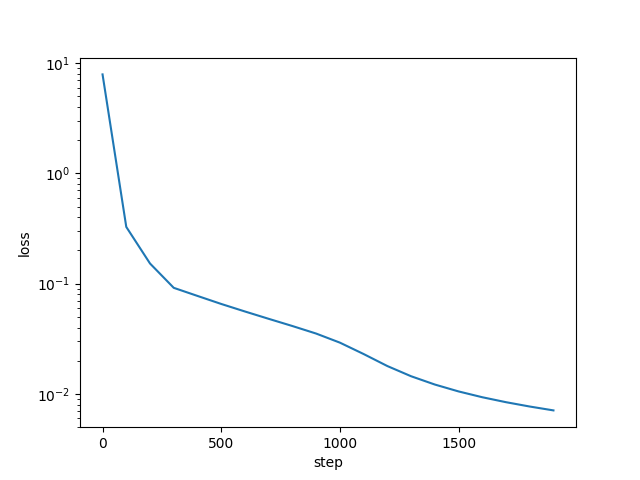
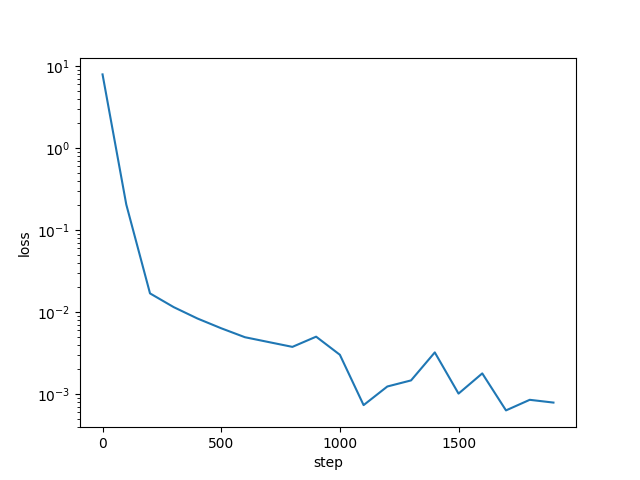
add fourier basis

diff --git a/src/jaxkan/train_mnist.py b/src/jaxkan/train_mnist.py
@@ -11,7 +11,7 @@ input_dim = 28 * 28
 batch_size = 64
 epoch_num = 10
 lr = 0.003
-
+spline_fn_name = "fourier"
 
 basis_fn = jax.nn.silu
 width_list = [input_dim, 64, class_num]
@@ -44,7 +44,9 @@ opt_state = solver.init(params)
 
 def loss_fn(params, X, Y):
     logits = jax.vmap(
-        lambda x: jax.nn.log_softmax(model(params, x, basis_fn, width_list, t, k))
+        lambda x: jax.nn.log_softmax(
+            model(params, x, basis_fn, width_list, t, k, spline_fn_name)
+        )
     )(X)
     one_hots = jax.nn.one_hot(Y, class_num)
     one_hots = jnp.reshape(one_hots, (len(Y), class_num))
@@ -59,6 +61,7 @@ steps_per_epoch = train_ds_size // batch_size
 loss_history = []
 train_accuracy_history = []
 test_accuracy_history = []
+
 
 keys = jax.random.split(jax.random.PRNGKey(0), epoch_num)
 for epoch in range(epoch_num):
@@ -76,7 +79,10 @@ for epoch in range(epoch_num):
         loss_history.append(loss)
     train_accuracy = jnp.mean(
         jax.vmap(
-            lambda x, y: jnp.argmax(model(params, x, basis_fn, width_list, t, k)) == y
+            lambda x, y: jnp.argmax(
+                model(params, x, basis_fn, width_list, t, k, spline_fn_name)
+            )
+            == y
         )(
             train_ds["image"].reshape((-1, input_dim)),
             train_ds["label"].reshape((-1, 1)),
@@ -84,7 +90,10 @@ for epoch in range(epoch_num):
     )
     test_accuracy = jnp.mean(
         jax.vmap(
-            lambda x, y: jnp.argmax(model(params, x, basis_fn, width_list, t, k)) == y
+            lambda x, y: jnp.argmax(
+                model(params, x, basis_fn, width_list, t, k, spline_fn_name)
+            )
+            == y
         )(test_ds["image"].reshape((-1, input_dim)), test_ds["label"].reshape((-1, 1)))
     )
     train_accuracy_history.append(train_accuracy)
@@ -99,7 +108,7 @@ plt.plot(loss_history)
 plt.yscale("log")
 plt.xlabel("step")
 plt.ylabel("loss")
-plt.savefig("mnist_loss.png")
+plt.savefig(f"mnist_loss_{spline_fn_name}.png")
 
 
 plt.figure()
@@ -108,4 +117,4 @@ plt.plot(test_accuracy_history, label="test")
 plt.xlabel("epoch")
 plt.ylabel("accuracy")
 plt.legend()
-plt.savefig("mnist_accuracy.png")
+plt.savefig(f"mnist_accuracy_{spline_fn_name}.png")

diff --git a/src/jaxkan/model.py b/src/jaxkan/model.py
@@ -8,6 +8,7 @@ from functools import partial
 #   x_{l+1,j} := \sum \psi(x_{l,i})
 
 
+# 1d b-spline interpolation
 @partial(jax.jit, static_argnums=(4, 5, 6))
 def psi(
     x: jnp.float32,
@@ -26,15 +27,49 @@ def psi(
     return scale_base * basis_fn(x) + scale_spline * spline
 
 
+# 1d fourier interpolation
+@partial(jax.jit, static_argnums=(4, 5, 6))
+def psi_fourier(
+    x: jnp.float32,
+    t: jax.Array,
+    params: jax.Array,
+    params_idx: int,
+    psi_param_length: int,
+    k: int,
+    basis_fn=jax.nn.silu,
+) -> jnp.float32:
+    params_slice = jax.lax.dynamic_slice(params, (params_idx,), (psi_param_length - 2,))
+    spline = 0
+    for i in range(len(params_slice)):
+        if i % 2 == 0:
+            spline += jnp.cos((i // 2) * x * jnp.pi) * params_slice[i]
+        else:
+            spline += jnp.sin((i // 2) * x * jnp.pi) * params_slice[i]
+
+    scale_base = params[params_idx + psi_param_length - 2]
+    scale_spline = params[params_idx + psi_param_length - 1]
+    return scale_base * basis_fn(x) + scale_spline * spline
+
+
+spline_fn_dict = {"bspline": psi, "fourier": psi_fourier}
+
+
 def model(
-    params: jax.Array, x: jax.Array, basis_fn, width_list: list, t: jax.Array, k: int
+    params: jax.Array,
+    x: jax.Array,
+    basis_fn,
+    width_list: list,
+    t: jax.Array,
+    k: int,
+    spline_fb_name: str = "bspline",
 ) -> jax.Array:
     psi_param_length = len(t) - k - 1 + 2
     current_idx = 0
+    spline_fn = spline_fn_dict[spline_fb_name]
     for l in range(len(width_list) - 1):
         P = jax.vmap(
             lambda i: jax.vmap(
-                lambda j: psi(
+                lambda j: spline_fn(
                     x[i],
                     t,
                     params,

diff --git a/src/jaxkan/train_toy_data.py b/src/jaxkan/train_toy_data.py
@@ -5,6 +5,7 @@ import matplotlib.pyplot as plt
 
 dataset_size = 100
 input_dim = 2
+spline_fn_name = "fourier"
 
 
 @jax.jit
@@ -45,7 +46,7 @@ coef = (
 
 
 def loss_fn(coef, x, y):
-    predict = model(coef, x, basis_fn, width_list, t, k)
+    predict = model(coef, x, basis_fn, width_list, t, k, spline_fn_name)
     return (predict - y) ** 2
 
 
@@ -68,5 +69,5 @@ plt.yscale("log")
 plt.xlabel("step")
 plt.ylabel("loss")
 plt.xticks([i for i in range(0, 2000, 500)])
-plt.savefig("loss.png")
+plt.savefig(f"loss_toy_model_{spline_fn_name}.png")
 plt.show()

diff --git a/README.md b/README.md
@@ -15,9 +15,14 @@ The original implementation of KANs in PyTorch is [here](https://github.com/Kind
 $ rye run python3 src/jaxkan/train_mnist.py
 ```
 ## Loss dynamics
-![loss](./mnist_loss.png)
+![loss](figures/mnist_loss_bspline.png)
 ## Accuracy dynamics
-![accuracy](./mnist_accuracy.png)
+![accuracy](figures/mnist_accuracy_bspline.png)
+
+## Loss dynamics with fourier basis
+![loss](figures/mnist_loss_fourier.png)
+## Accuracy dynamics with fourier basis
+![accuracy](figures/mnist_accuracy_fourier.png)
 
 # References
 - [KAN: Kolmogorov-Arnold Networks](https://arxiv.org/abs/2404.19756)
